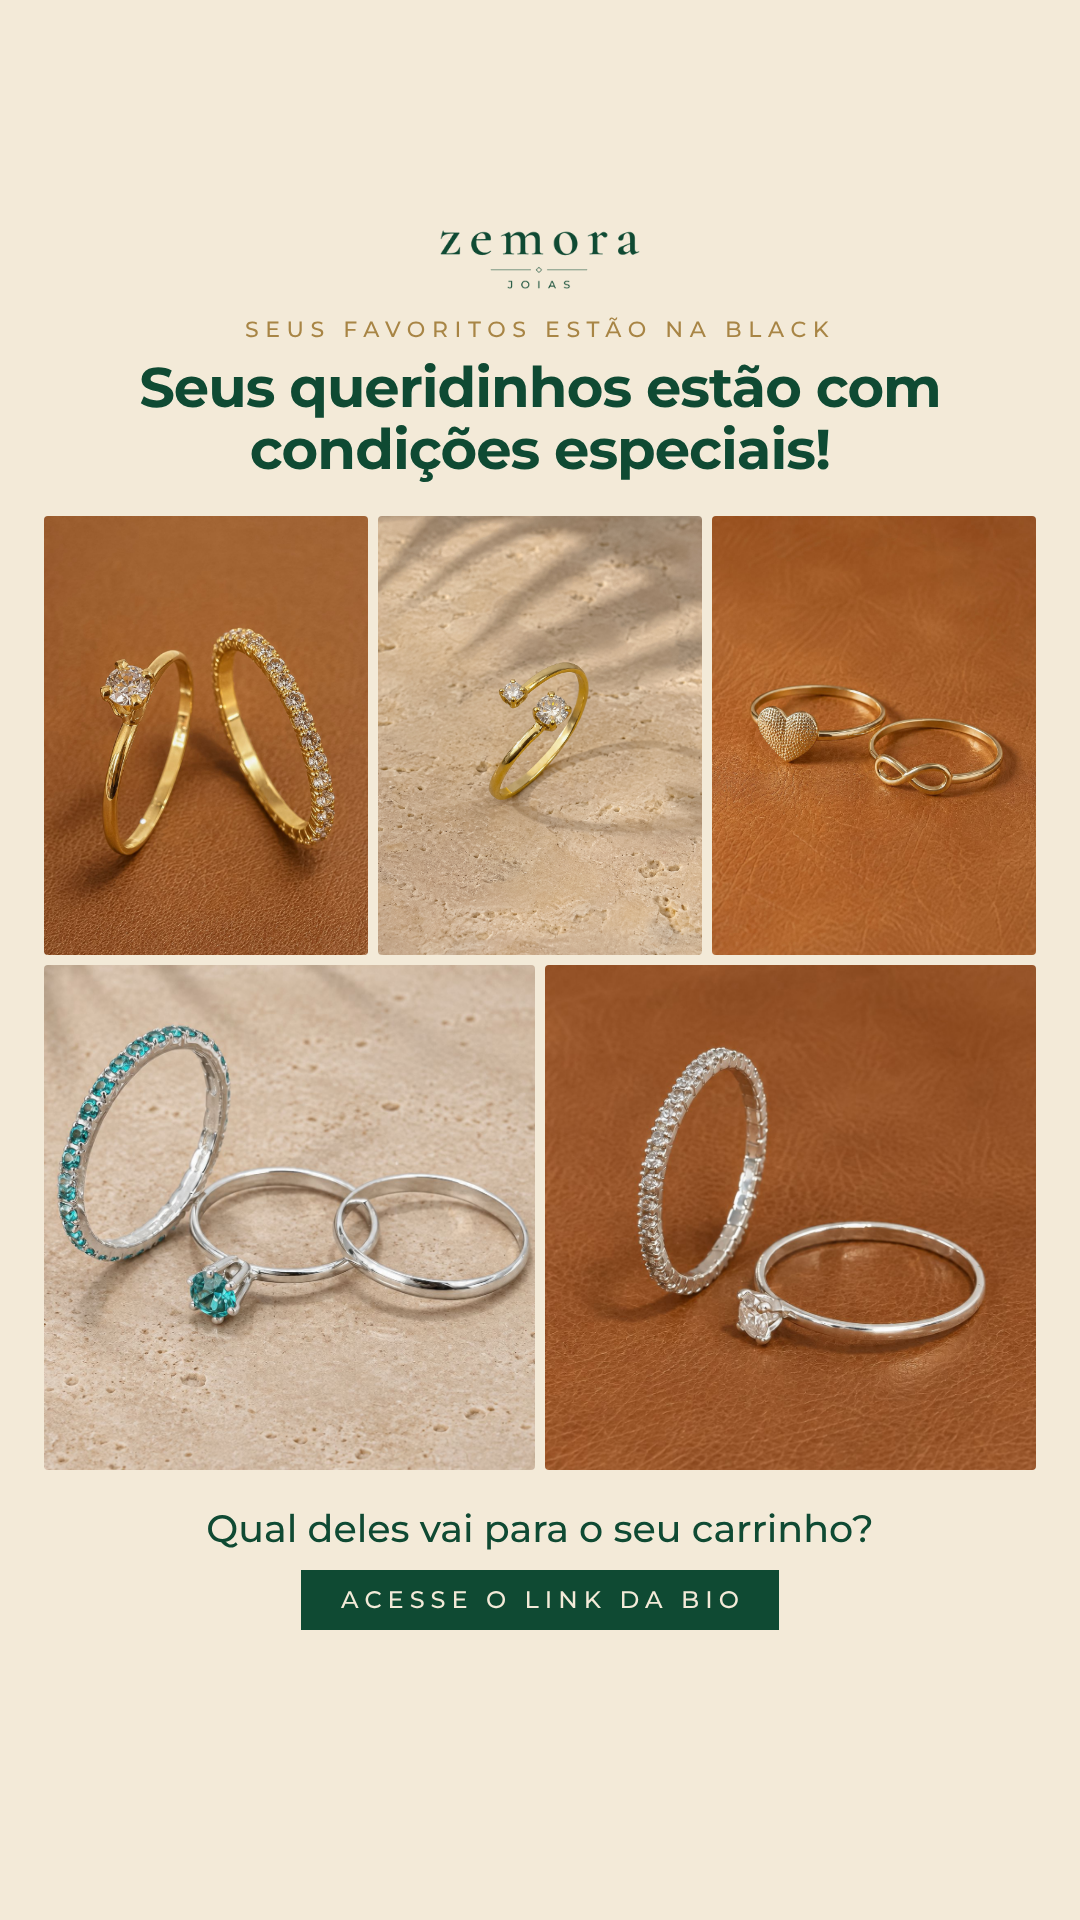
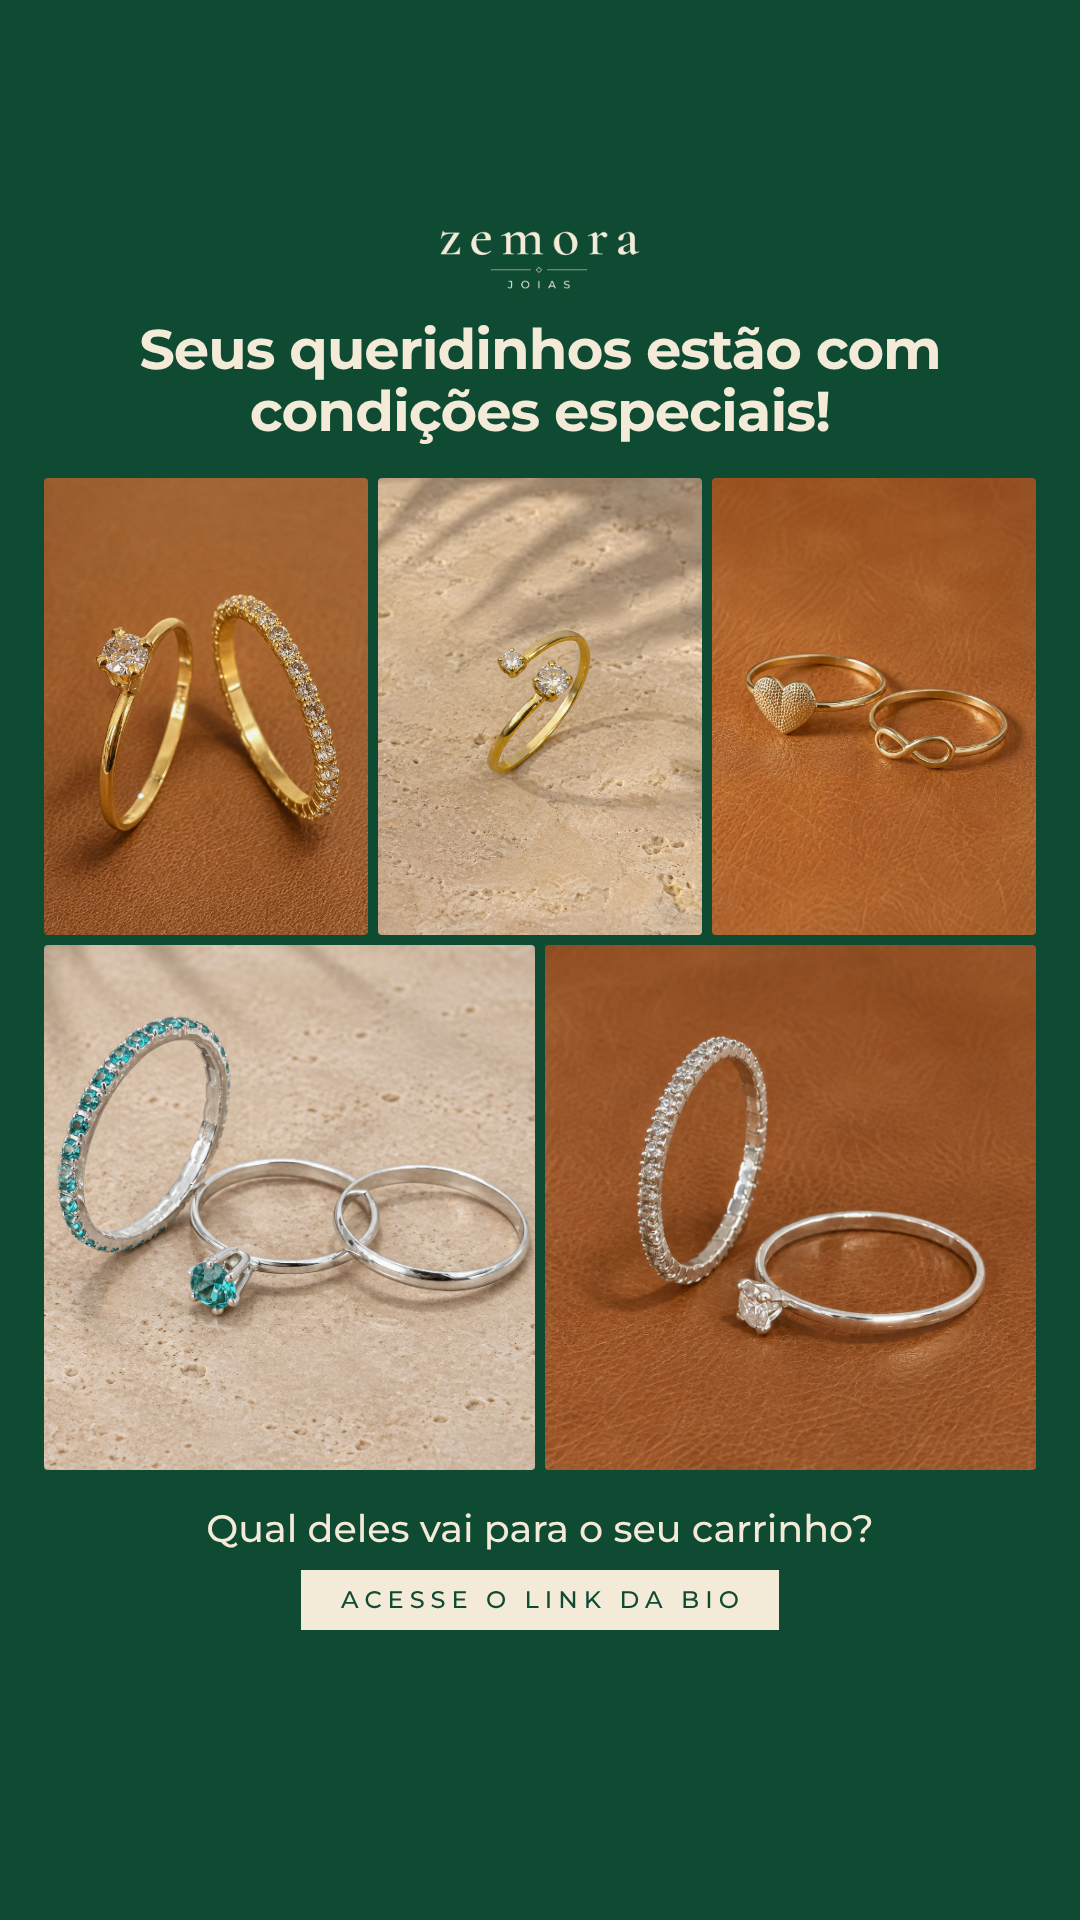
Colagem: fundo verde, letras creme, sem frase do topo
Claude-Session: https://claude.ai/code/session_01Ds4o6DPNY229NefAqtX4RB

diff --git a/cards/collage.html b/cards/collage.html
@@ -2,20 +2,19 @@
 <link href="https://fonts.googleapis.com/css2?family=Montserrat:wght@300;400;500;700&display=swap" rel="stylesheet">
 <style>
 *{margin:0;padding:0;box-sizing:border-box}
-body{width:1080px;height:{{H}}px;overflow:hidden;background:#f3ead8;font-family:Montserrat;color:#0f4a33}
+body{width:1080px;height:{{H}}px;overflow:hidden;background:#0f4a33;font-family:Montserrat;color:#f3ead8}
 .wrap{height:100%;display:flex;flex-direction:column;align-items:center;padding:{{PADT}}px 44px {{PADB}}px;text-align:center}
 .logo{width:{{LOGOW}}px}
 .kick{margin-top:{{GAP1}}px;font:500 {{KS}}px/1 Montserrat;letter-spacing:.3em;text-transform:uppercase;color:#a88545}
-h1{margin-top:16px;font:700 {{TS}}px/1.1 Montserrat;letter-spacing:-1px}
+h1{margin-top:{{GAP1}}px;font:700 {{TS}}px/1.1 Montserrat;letter-spacing:-1px}
 .grid{flex:1;width:100%;margin:{{GAP2}}px 0;display:grid;grid-template-columns:repeat(6,1fr);grid-template-rows:{{ROWS}};gap:10px;min-height:0}
 .grid div{overflow:hidden;border-radius:4px}
 .grid img{width:100%;height:100%;object-fit:cover;display:block}
 .a{grid-column:span 2}.b{grid-column:span 3}
 .q{font:500 {{QS}}px/1.2 Montserrat}
-.cta{margin-top:18px;background:#0f4a33;color:#f3ead8;font:500 {{CS}}px/1 Montserrat;letter-spacing:.25em;text-transform:uppercase;padding:18px 34px 18px 40px}
+.cta{margin-top:18px;background:#f3ead8;color:#0f4a33;font:500 {{CS}}px/1 Montserrat;letter-spacing:.25em;text-transform:uppercase;padding:18px 34px 18px 40px}
 </style></head><body><div class="wrap">
-<img class="logo" src="logo-zemora-verde.png">
-<div class="kick">Seus favoritos estão na Black</div>
+<img class="logo" src="logo-zemora-creme.png">
 <h1>Seus queridinhos estão com<br>condições especiais!</h1>
 <div class="grid">
  <div class="a"><img src="anel2.png" style="object-position:50% 45%"></div>
